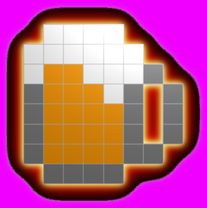
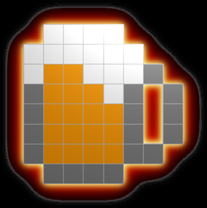
Cervezas sin bordes rositas
Ahora jugador tiene el atributo MAX_VIDA para mostrar las cervezas
apagadas siempre

Changed region(s): [[0.0, 0.0, 1.0, 1.0]]

diff --git a/Juego/src/hud.py b/Juego/src/hud.py
@@ -3,6 +3,7 @@ from pygame.locals import *
 from gestorRecursos import *
 from values import *
 from escena import *
+from personajes import MAX_VIDA_JUGADOR
 
 class Hud(pygame.sprite.Sprite):
 
@@ -16,19 +17,28 @@ class Hud(pygame.sprite.Sprite):
         self.scaley = 50
 
         self.image0 = pygame.transform.scale(GestorRecursos.CargarImagen(CERVEZA_0,-1),(self.scalex,self.scaley)).convert_alpha()
-        self.image1 = pygame.transform.scale(GestorRecursos.CargarImagen('cerveza_11.png',-1),(self.scalex,self.scaley)).convert_alpha()
-        self.image2 = pygame.transform.scale(GestorRecursos.CargarImagen('cerveza_22.png',-1),(self.scalex,self.scaley)).convert_alpha()
-        self.image3 = pygame.transform.scale(GestorRecursos.CargarImagen('cerveza_33.png',-1),(self.scalex,self.scaley)).convert_alpha()
-        self.image4 = pygame.transform.scale(GestorRecursos.CargarImagen('cerveza_44.png',-1),(self.scalex,self.scaley)).convert_alpha()
+        self.image1 = pygame.transform.scale(GestorRecursos.CargarImagen('cerveza_1.png',-1),(self.scalex,self.scaley)).convert_alpha()
+        self.image2 = pygame.transform.scale(GestorRecursos.CargarImagen('cerveza_2.png',-1),(self.scalex,self.scaley)).convert_alpha()
+        self.image3 = pygame.transform.scale(GestorRecursos.CargarImagen('cerveza_3.png',-1),(self.scalex,self.scaley)).convert_alpha()
+        self.image4 = pygame.transform.scale(GestorRecursos.CargarImagen('cerveza_4.png',-1),(self.scalex,self.scaley)).convert_alpha()
 
     def update(self,jugador):
         self.vida = jugador.vida
 
     def draw(self,pantalla):
+        auxVida = MAX_VIDA_JUGADOR
+        auxCounter = 1
+        while auxVida > 0:
+            self.blit_alpha(pantalla,self.image1,(self.scalex * auxCounter,self.topPadding),64)
+            #pantalla.blit(self.image1,(self.scalex * auxCounter,self.topPadding))
+            auxCounter += 1
+            auxVida -= 4
+
         auxVida = self.vida
         auxCounter = 1
 
         while auxVida >= 4:
+            #self.blit_alpha(pantalla,self.image1,(self.scalex * auxCounter,self.topPadding),128)
             pantalla.blit(self.image1,(self.scalex * auxCounter,self.topPadding))
             auxCounter += 1
             auxVida -= 4
@@ -41,6 +51,15 @@ class Hud(pygame.sprite.Sprite):
             pantalla.blit(self.image4,(self.scalex * auxCounter,self.topPadding))
         else:
             pantalla.blit(self.image0,(self.scalex * auxCounter,self.topPadding))
+
+    def blit_alpha(self,target, source, location, opacity):
+        x = location[0]
+        y = location[1]
+        temp = pygame.Surface((source.get_width(), source.get_height())).convert()
+        temp.blit(target, (-x, -y))
+        temp.blit(source, (0, 0))
+        temp.set_alpha(opacity)        
+        target.blit(temp, location)
 
 
 

diff --git a/Juego/src/personajes.py b/Juego/src/personajes.py
@@ -33,7 +33,8 @@ DURACION_MUERTE_JUGADOR = 35
 DURACION_ATACAR = 10
 
 #Dano personajes
-VIDA_JUGADOR = 40
+MAX_VIDA_JUGADOR = 40
+VIDA_JUGADOR = MAX_VIDA_JUGADOR
 VIDA_SNIPER = 100
 
 #Dano personajes
